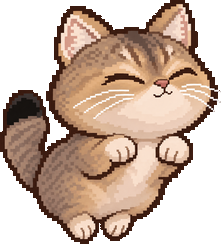
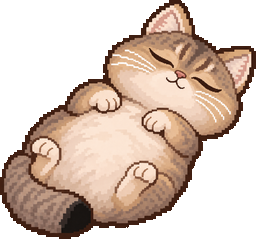
捨令: belly-up happy pose and a gentle wiggle on tap
Claude-Session: https://claude.ai/code/session_016CQekzpGhANorfRCZx2is2

diff --git a/index.html b/index.html
@@ -82,6 +82,8 @@ main{flex:1;overflow-y:auto;overflow-x:hidden;display:flex;flex-direction:column
 .pet img{transform-origin:50% 100%}
 .pet.bob img{transform:scale(1.015,.97)}
 .pet.jump img{animation:jump .7s steps(5) 1}
+.pet.wiggle img{animation:wiggle .9s steps(6) 1}
+@keyframes wiggle{0%,100%{transform:rotate(0)}20%{transform:rotate(-4deg)}40%{transform:rotate(4deg)}60%{transform:rotate(-3deg)}80%{transform:rotate(2deg)}}
 @keyframes jump{0%,100%{transform:translateY(0)}35%{transform:translateY(-18px)}65%{transform:translateY(-10px)}}
 .bubble{position:absolute;bottom:60%;left:50%;width:max-content;max-width:min(280px,calc(100% - 12px));border:17px solid transparent;
   border-image:url(assets/bubble_body.png) 60 fill / 17px stretch;
@@ -390,7 +392,7 @@ const PETS={
   beagle:{label:'米格魯',def:'豆豆',h:{idle:219,happy:238,sleep:203,alert:241}},
   parrot:{label:'鸚鵡',def:'啾啾',h:{idle:185,happy:218,sleep:175,alert:199}},
   /* 4th mascot: hidden from the picker until assets/cat_idle.png exists; sizes are read from the images */
-  cat:{label:'貓咪',def:'捨令',h:{idle:256,happy:256,sleep:200,alert:256},auto:true}};
+  cat:{label:'貓咪',def:'捨令',tap:'wiggle',h:{idle:256,happy:256,sleep:200,alert:256},auto:true}};
 const AVAIL={shiba:true,beagle:true,parrot:true};
 const petKey=p=>AVAIL[p]&&PETS[p]?p:'shiba';
 const art=(p,a)=>`assets/${p}_${a}.png`;
@@ -504,7 +506,7 @@ function home(){bubble(homeLine());setPose(pose());
     (isLive()&&!calLinked()?'<p class="empty">還沒連結 Google 日曆。到「設定」按「連結日曆」，夥伴就能提醒你行程。</p>':`<p class="empty">${day?'明天':'今天'}沒有行程，好好休息。</p>`);}
 $('#day-toggle').addEventListener('click',()=>{st.dayPick=1-panelDay();home()});
 function mood(m,ms){st.mood=m;setPose(m);clearTimeout(mood._t);mood._t=setTimeout(()=>{st.mood=null;setPose(pose());bubble(homeLine())},ms)}
-$('#pet').addEventListener('click',()=>{const p=$('#pet');p.classList.remove('jump');void p.offsetWidth;p.classList.add('jump');
+$('#pet').addEventListener('click',()=>{const p=$('#pet'),fx=PETS[petKey(st.pet)].tap||'jump';p.classList.remove('jump','wiggle');void p.offsetWidth;p.classList.add(fx);
   mood('happy',1600);const arr=TAP[petKey(st.pet)];bubble(arr[Math.floor(Math.random()*arr.length)]);
   const stage=$('#stage'),r=stage.getBoundingClientRect(),pr=p.getBoundingClientRect();
   for(let i=0;i<3;i++){const h=document.createElement('img');h.src='assets/ic_heart.png';h.alt='';h.className='float-heart';

diff --git a/sw.js b/sw.js
@@ -1,5 +1,5 @@
 // 像素行程夥伴 service worker：離線快取。改了檔案後把 VERSION 加 1，手機才會抓到新版。
-const VERSION='v16';
+const VERSION='v17';
 const CACHE='pixel-pal-'+VERSION;
 const CORE=['./','index.html','manifest.webmanifest','icons/icon-192.png','icons/icon-512.png','icons/apple-touch-icon.png','vendor/supabase-2.118.0.js',
   'assets/badge.png',
